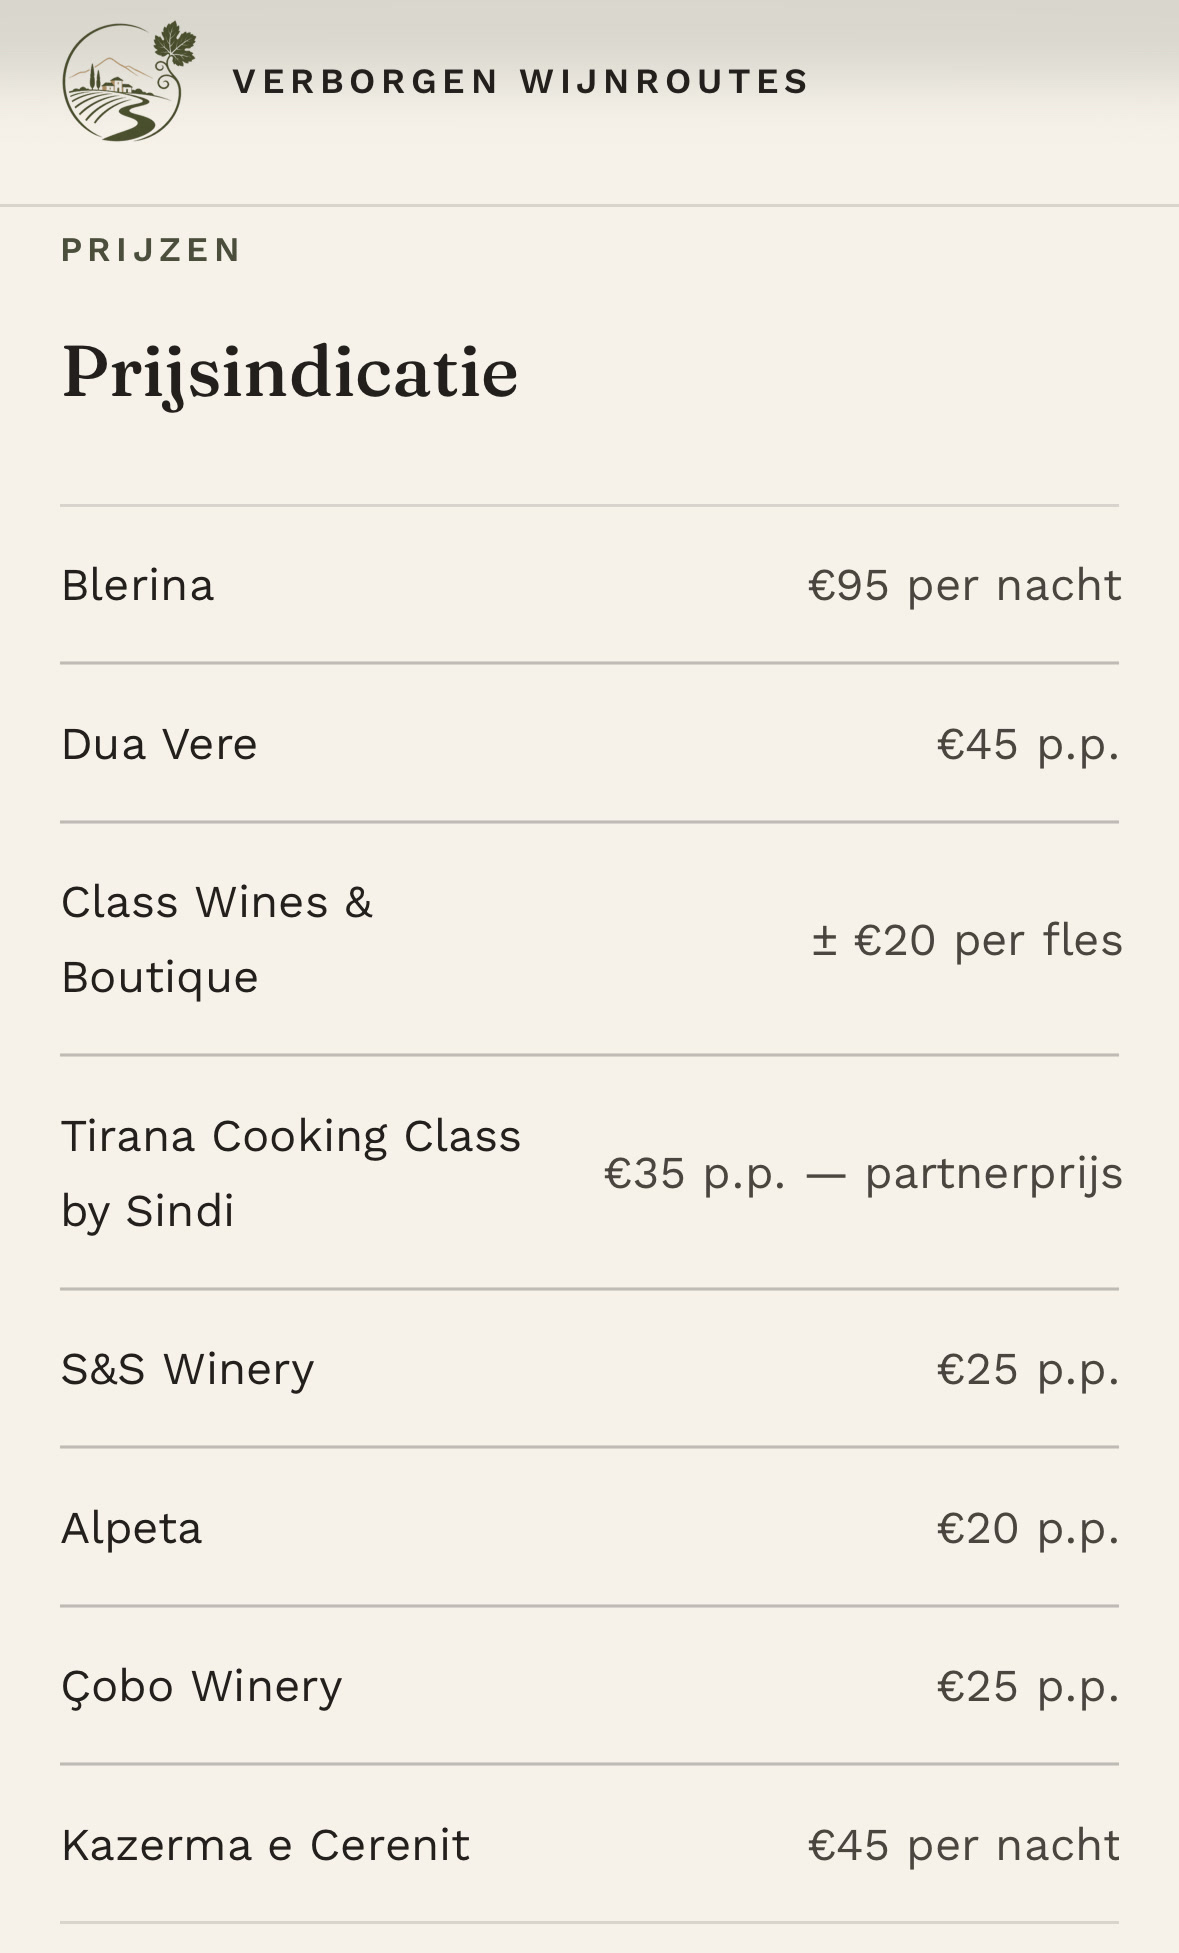
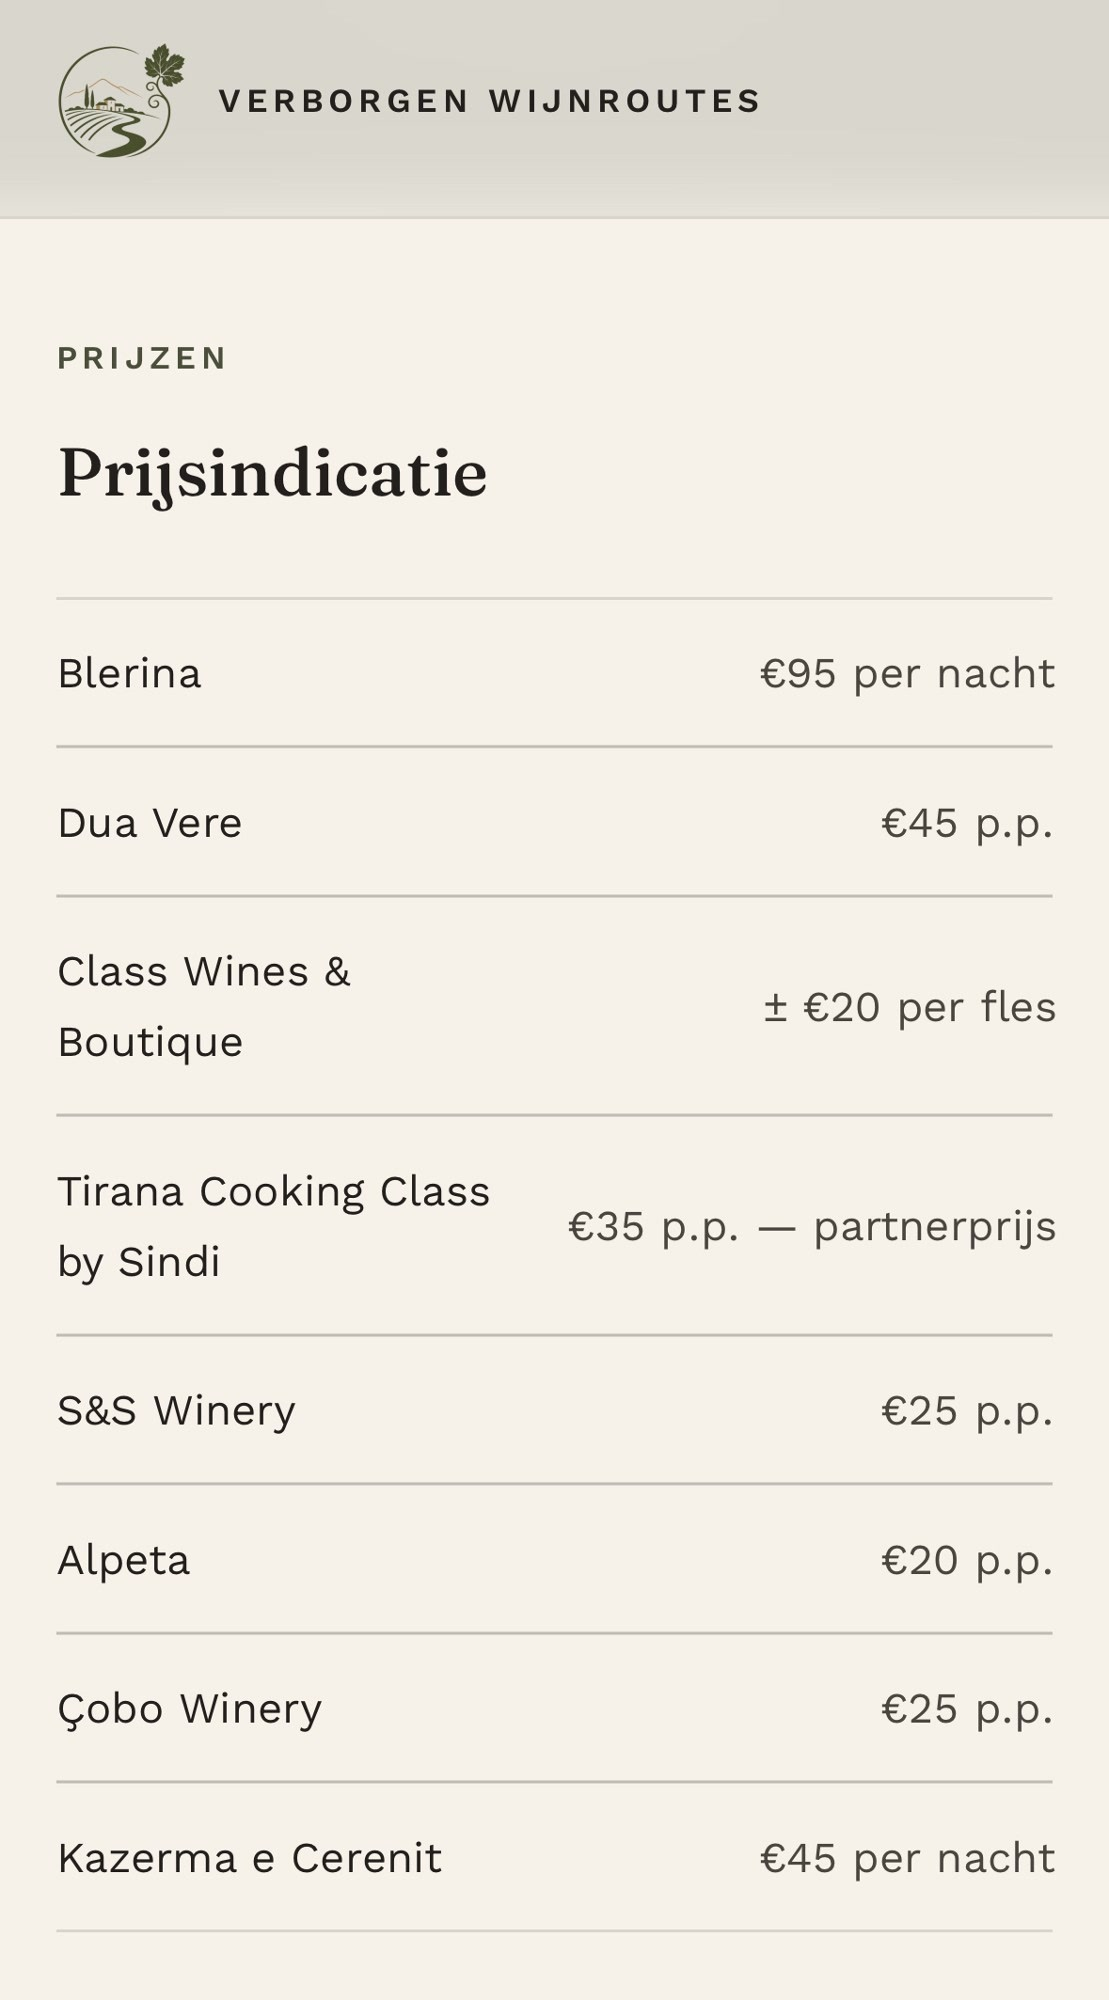
Split-regel breder, nieuwe reisconcept-screenshots, prijzen subtiel vermeld
- Split op de homepage: kuststad, wijnboerderijen in het achterland,
  Dalmatische druiven en eilanden
- Nieuwe screenshots voor route (links) en prijsindicatie (rechts)
- Bij het voorbeeld-reisconcept: reisconcept EUR 250, optionele
  boekingsservice EUR 100, de reis betaal je zelf aan de plekken

Claude-Session: https://claude.ai/code/session_01DDWwcHSYtrSEhSumBURAvG

diff --git a/CLAUDE.md b/CLAUDE.md
@@ -90,7 +90,7 @@ Projectcontext voor Claude Code. Dit bestand legt de afspraken vast die met Stij
 
 ## Nog open
 
-- Juridisch: Stijn verkoopt een reisconcept; optioneel boekt hij voor €50 extra namens de klant, maar de klant betaalt de aanbieders altijd zelf. Waarschijnlijk geen pakketreisorganisator, maar de boekservice is het grijze gebied: kort laten checken (SGR/ANVR/jurist). Tot die tijd op de site nooit 'boek bij ons', 'pakket' of totaalprijzen; wel 'reisconcept' en 'aanvragen'.
+- Juridisch: Stijn verkoopt een reisconcept (€ 250, advies); optioneel zet hij voor € 100 boekingsfee alles klaar en maakt hij afspraken namens de klant (staat subtiel vermeld bij het voorbeeld-reisconcept), maar de klant betaalt de aanbieders altijd zelf. Waarschijnlijk geen pakketreisorganisator, maar de boekservice is het grijze gebied: kort laten checken (SGR/ANVR/jurist). Tot die tijd op de site nooit 'boek bij ons', 'pakket' of totaalprijzen; wel 'reisconcept' en 'aanvragen'.
 - Welke bestaande teksten hergebruikt worden.
 - Prefill bestemmingsvraag: veld `entry.1648549759`, Tirana = `Tirana, Albanië (live)`, Kreta = `Kreta, Griekenland (komt eraan)`, Split = `Split, Kroatië (komt eraan)` (in `src/config/site.ts`, helper `aanvraagLink(route)`). Wijzigt Stijn een antwoordoptie in het formulier, dan hier ook aanpassen.
 

diff --git a/content/wijnroutes/split.md b/content/wijnroutes/split.md
@@ -3,7 +3,7 @@ naam: Split
 land: Kroatië
 status: binnenkort
 volgorde: 3
-regel: Dalmatische wijn, eigen vleeswaren en kazen, en een boerderij waar alles nog authentiek is.
+regel: Een levendige kuststad met wijnboerderijen in het achterland, Dalmatische druiven en eilanden voor de deur.
 
 seoTitel: "Wijnreis Kroatië samenstellen rond Split | Verborgen Wijnroutes"
 seoOmschrijving: "Laat een persoonlijke wijnreis naar Kroatië samenstellen. Dalmatische druiven als Plavac Mali, authentieke boerderijen en de keuken rond Split. Binnenkort."
